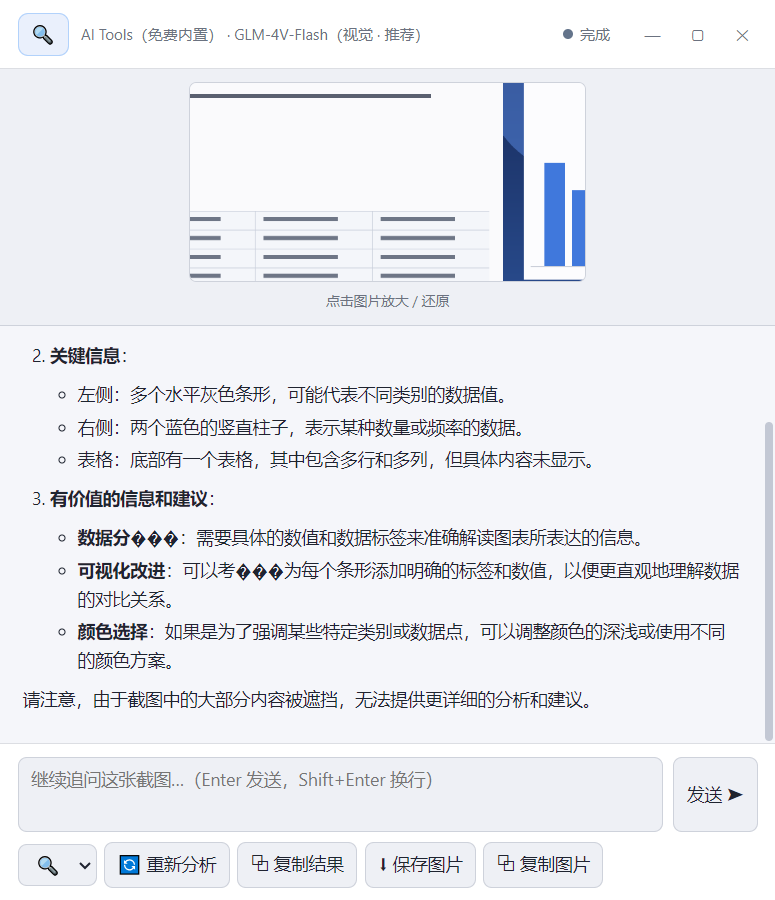
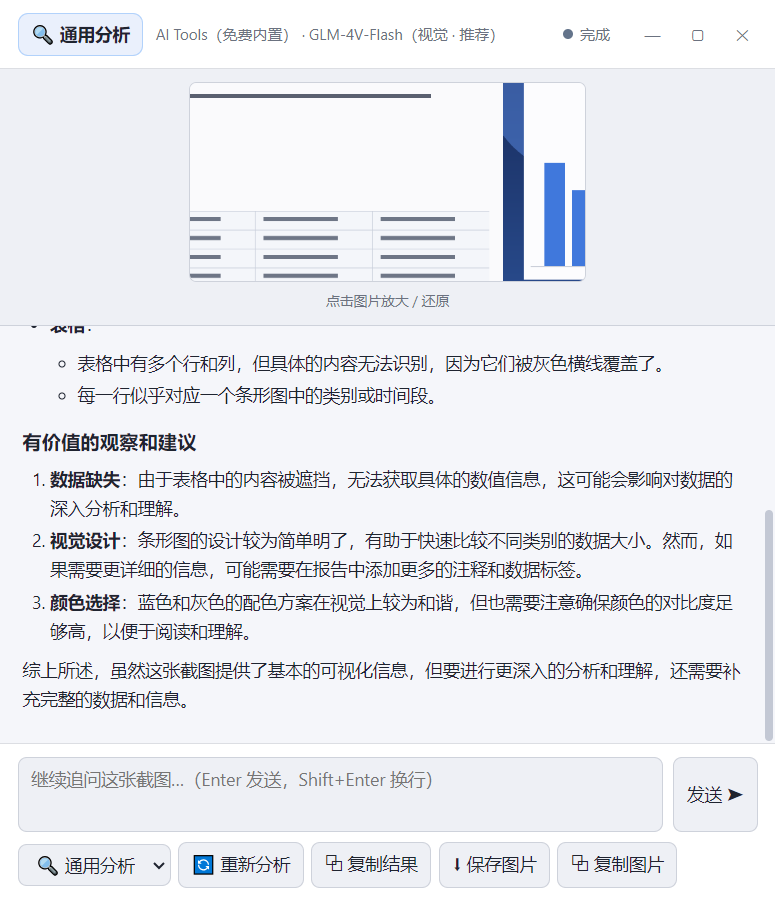
Fix agent names showing undefined in settings, update docs screenshots
- Settings renderer now resolves built-in agent names/prompts via
  agentName/agentPrompt with language awareness (nameZh/nameEn)
- migrateStoredAgents now merges bilingual fields from builtin defaults
  into stored agents (old data lost them when name was stripped)
- agentName/agentPrompt fall back to builtin lookup by id
- Refresh docs screenshots from latest build (light theme, correct
  window controls, proper agent names)

Changed region(s): [[0.031, 0.3422, 1.0, 0.8089], [0.0929, 0.9333, 0.8671, 0.9956], [0.0619, 0.0311, 0.6503, 0.0622]]

diff --git a/src/renderer/settings/settings.js b/src/renderer/settings/settings.js
@@ -1,5 +1,9 @@
 /* 设置窗口逻辑：模型服务 / 智能体 CRUD / 截图行为 / 通用 */
 const bridge = window.api;
+const AgentsShared = window.AgentsShared;
+const agentLang = () => window.i18n.lang();
+const agentDisplayName = (a) => AgentsShared.agentName(a, agentLang());
+const agentDisplayPrompt = (a) => AgentsShared.agentPrompt(a, agentLang());
 
 
 let settings = null;
@@ -175,8 +179,8 @@ function renderAgents() {
     item.innerHTML = `
       <span class="ico">${a.icon || '🤖'}</span>
       <span class="grow">
-        <div class="name">${a.name} ${a.id === settings.defaultAgentId ? '<span class="badge">' + window.i18n.t('ag.default') + '</span>' : ''} ${a.builtIn ? '<span class="badge builtin">' + window.i18n.t('ag.builtin') + '</span>' : ''}</span>
-        <div class="prompt-preview">${(a.systemPrompt || '').replace(/\n/g, ' ').slice(0, 80)}</div>
+        <div class="name">${agentDisplayName(a)} ${a.id === settings.defaultAgentId ? '<span class="badge">' + window.i18n.t('ag.default') + '</span>' : ''} ${a.builtIn ? '<span class="badge builtin">' + window.i18n.t('ag.builtin') + '</span>' : ''}</span>
+        <div class="prompt-preview">${agentDisplayPrompt(a).replace(/\n/g, ' ').slice(0, 80)}</div>
       </span>
       <span class="ops">
         <label class="switch" title="${window.i18n.t('ag.enabled')}"><input type="checkbox" ${a.enabled !== false ? 'checked' : ''} /></label>
@@ -198,7 +202,7 @@ function renderAgents() {
     item.querySelector('.op-edit').addEventListener('click', () => openAgentEditor(a));
     const del = item.querySelector('.op-del');
     if (del) del.addEventListener('click', () => {
-      if (!confirm(window.i18n.t('ag.delConfirm', a.name))) return;
+      if (!confirm(window.i18n.t('ag.delConfirm', agentDisplayName(a)))) return;
       settings.agents = settings.agents.filter((x) => x.id !== a.id);
       if (settings.defaultAgentId === a.id) settings.defaultAgentId = 'general';
       renderAgents();
@@ -211,10 +215,10 @@ function renderAgents() {
 
 function openAgentEditor(a) {
   editingAgentId = a ? a.id : null;
-  $('aeTitle').textContent = a ? window.i18n.t('ag.editTitle', a.name) : window.i18n.t('ag.newTitle');
+  $('aeTitle').textContent = a ? window.i18n.t('ag.editTitle', agentDisplayName(a)) : window.i18n.t('ag.newTitle');
   $('aeIcon').value = a ? a.icon || '' : '';
-  $('aeName').value = a ? a.name : '';
-  $('aePrompt').value = a ? a.systemPrompt || '' : '';
+  $('aeName').value = a ? agentDisplayName(a) : '';
+  $('aePrompt').value = a ? agentDisplayPrompt(a) : '';
   // 模型下拉：跟随全局 + 当前服务的全部模型
   const sel = $('aeModel');
   sel.innerHTML = `<option value="">${window.i18n.t('ag.followGlobal')}</option>`;
@@ -281,7 +285,7 @@ function renderCapture() {
   for (const a of settings.agents) {
     const opt = document.createElement('option');
     opt.value = a.id;
-    opt.textContent = `${a.icon || '🤖'} ${a.name}`;
+    opt.textContent = `${a.icon || '🤖'} ${agentDisplayName(a)}`;
     if (a.id === settings.defaultAgentId) opt.selected = true;
     sel.appendChild(opt);
   }

diff --git a/src/shared/agents.js b/src/shared/agents.js
@@ -107,26 +107,45 @@ const BUILTIN_AGENTS = [
 ];
 
 // 按语言解析内置智能体的名称 / 提示词（用户自定义值优先）
+// 若存储对象缺失双语字段（如旧数据迁移前），回退到内置定义
+function resolveDef(agent) {
+  return BUILTIN_AGENTS.find((d) => d.id === agent.id) || null;
+}
 function agentName(agent, lang) {
   if (agent.name) return agent.name;
-  return (lang === 'en' ? agent.nameEn : agent.nameZh) || agent.nameZh || agent.nameEn || '';
+  const src = (agent.nameZh || agent.nameEn) ? agent : resolveDef(agent) || {};
+  return (lang === 'en' ? src.nameEn : src.nameZh) || src.nameZh || src.nameEn || '';
 }
 function agentPrompt(agent, lang) {
   if (agent.systemPrompt) return agent.systemPrompt;
-  return (lang === 'en' ? agent.promptEn : agent.promptZh) || agent.promptZh || '';
+  const src = (agent.promptZh || agent.promptEn) ? agent : resolveDef(agent) || {};
+  return (lang === 'en' ? src.promptEn : src.promptZh) || src.promptZh || src.promptEn || '';
 }
 
-// 迁移旧数据：旧的内置智能体把中文名/提示词写死在 name/systemPrompt 里，
-// 若与内置默认一致则清掉，交给语言切换本地化；被用户改过的保留。
+// 迁移旧数据：旧版内置智能体把中文名/提示词写死在 name/systemPrompt 里，
+// 若与内置默认一致则清掉，并补齐双语字段（从内置定义合并），交给语言切换本地化；被用户改过的保留。
 function migrateStoredAgents(agents) {
   return agents.map((a) => {
     const def = BUILTIN_AGENTS.find((d) => d.id === a.id);
     if (!def) return a;
-    const out = { ...a };
-    if (out.name === def.nameZh) delete out.name;
-    if (out.systemPrompt === def.promptZh) delete out.systemPrompt;
-    return out;
+    // 以内置定义为基础合并存量字段：双语字段始终补齐，用户覆盖（name/systemPrompt/icon 等）优先
+    const merged = {
+      ...def,
+      ...a,
+      // 显式覆盖与默认值一致的清掉（旧版写死的中文名），恢复本地化能力
+      ...(a.name === def.nameZh ? { name: undefined } : {}),
+      ...(a.systemPrompt === def.promptZh ? { systemPrompt: undefined } : {}),
+    };
+    if (merged.name === undefined) delete merged.name;
+    if (merged.systemPrompt === undefined) delete merged.systemPrompt;
+    return merged;
   });
 }
 
-module.exports = { BUILTIN_AGENTS, agentName, agentPrompt, migrateStoredAgents };
+// UMD 导出：主进程 require / 渲染层 script 标签共用
+const agentsApi = { BUILTIN_AGENTS, agentName, agentPrompt, migrateStoredAgents };
+if (typeof module !== 'undefined' && module.exports) {
+  module.exports = agentsApi;
+} else if (typeof window !== 'undefined') {
+  window.AgentsShared = agentsApi;
+}

diff --git a/src/main/index.js b/src/main/index.js
@@ -331,11 +331,13 @@ if (!gotLock) {
       if (settingsWin && !settingsWin.isDestroyed()) {
         await snap(settingsWin, 'settings.png');
         const info = await settingsWin.webContents.executeJavaScript(`(() => {
+          const names = Array.from(document.querySelectorAll('#agentList .agent-item .name')).map((el) => el.textContent.trim().split(' ')[0]);
           return {
             providers: document.querySelectorAll('#providerList .model-item').length,
             models: document.querySelectorAll('#modelList .model-item').length,
             agents: document.querySelectorAll('#agentList .agent-item').length,
             shortcut: document.getElementById('shortcutDisplay').textContent,
+            agentNames: names,
           };
         })()`);
         console.log('[selftest] settings DOM:', JSON.stringify(info));

diff --git a/src/renderer/settings/index.html b/src/renderer/settings/index.html
@@ -322,6 +322,7 @@
   </div>
 
   <script src="../../shared/i18n-dom.js"></script>
+  <script src="../../shared/agents.js"></script>
   <script>applyI18n();</script>
   <script src="settings.js"></script>
 </body>
